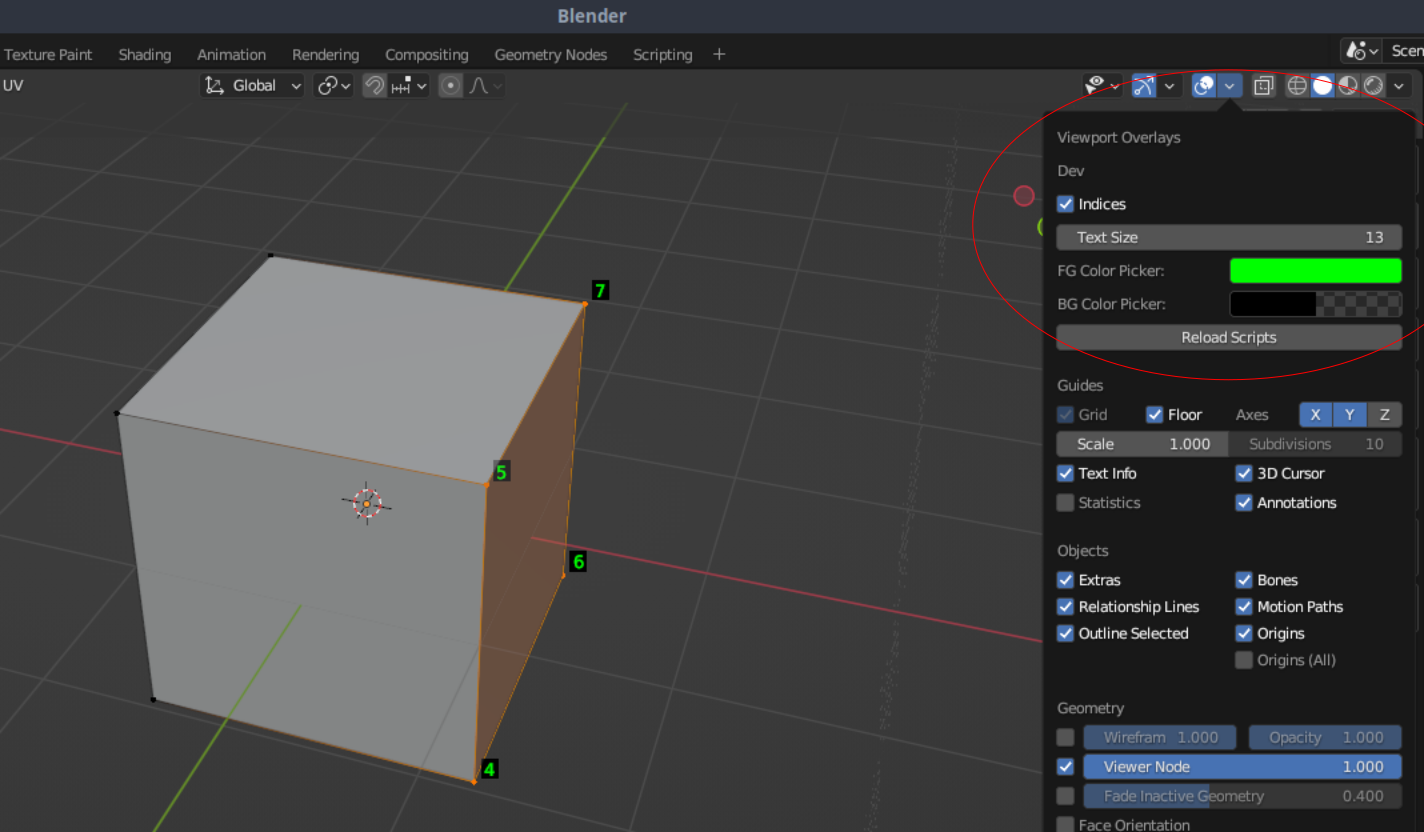
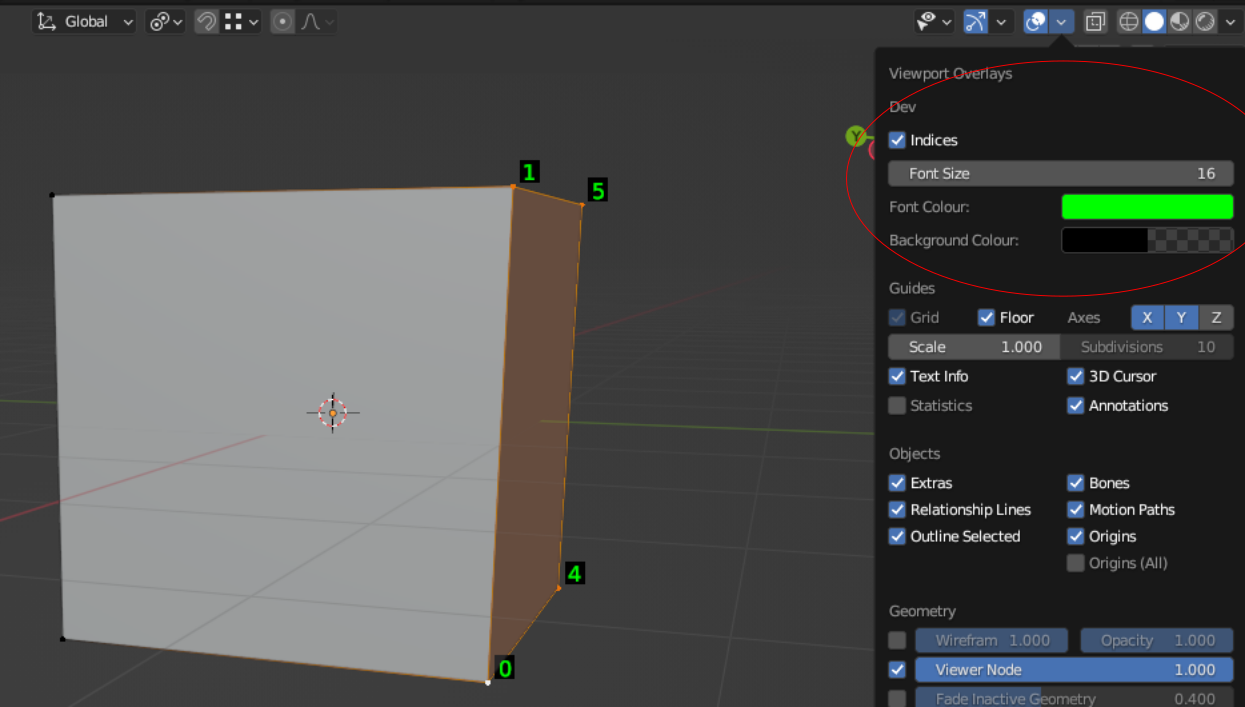
update readme and screenshot

diff --git a/README.md b/README.md
@@ -1,18 +1,19 @@
 # Index Visualiser
-Show the indices of mesh components in a readable manner. Works with verts, edges and faces.
+Show the indices of verts, edges and faces in a readable manner.
 
-The selection mode determines which indices are displayed. The other controls are found in the Overlay menu when in EDIT mode, under the Dev header. 
+There is a similar feature built into blender, but sometimes it's difficult to read the labels. The only control is font colour.
+
+This addon replicates this feature but adds in a background to make it more legible. You can control the font/background colours, and the font size (and of course turn it on/off).
+
+A keyboard shortcut is defined for convenience, this can be changed within blender.
+
+F6 - Toggle labels
+
+Like the inbuilt functionality, the selection mode determines which indices are displayed. The other controls are found in the Overlay menu when in EDIT mode, under the Dev header.
 
 <img src="pics/screenshot.png" width="600">
 
-Two keyboard shortcuts are defined by default.
-
-F5 - Reload scripts <br>
-F6 - Toggle labels
-
-If you reload scripts normally whilst the labels are displayed, then you'll lose the reference to the draw callback. This means you won't be able to turn the labels off until you restart blender. 
-
-The custom reload scripts operator (F5) simply removes the callback, then reloads scripts using `bpy.ops.script.reload()` (the normal method) and should it be necessary re-adds the callback. 
+If you want to change the defaults then create a new file, change the values and save it as a new startup file (however Indices always defaults to off). Or you can modify `index-visualiser.py`.
 
 ### Install
 
